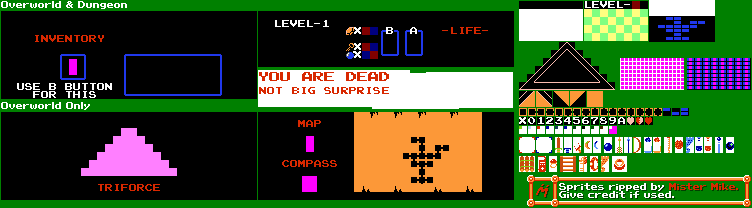
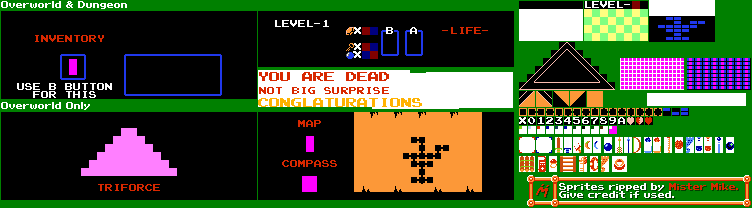
Updates Win Screen to be a bit more aesthetically in-line

Changed region(s): [[0.3364, 0.4615, 0.5811, 0.5192], [0.8564, 0.4327, 1.0, 0.5192]]

diff --git a/sprint0Real/GameState/WinningState.cs b/sprint0Real/GameState/WinningState.cs
@@ -24,6 +24,8 @@ internal class WinningState
     private Game1 game;
     private SpriteFont winFont;
 
+    private Texture2D SpriteSheet;
+
 
     private double animationElapsedTime = 0;
     private const double animationTotalDuration = 8; 
@@ -34,7 +36,7 @@ internal class WinningState
     private int numFlashes = 6;
     private double flashElapsedTime = 0;
 
-    public WinningState(Game1 game)
+    public WinningState(Game1 game, Texture2D _texture)
     {
         this.game = game;
         this.linksheet = game.linkSheet;
@@ -59,6 +61,8 @@ internal class WinningState
         );
         triforce = new Triforce(triforcePos);
         winFont = game.Content.Load<SpriteFont>("WinFont");
+
+        SpriteSheet = _texture;
     }
 
     public void Update(GameTime gameTime)
@@ -130,8 +134,8 @@ internal class WinningState
                 (screenWidth - size.X) / 2,
                 (screenHeight - size.Y) / 2
             );
+            spriteBatch.Draw(SpriteSheet, new Rectangle(Game1.SCREENMIDX - 82 * Game1.RENDERSCALE, Game1.SCREENMIDY - 4 * Game1.RENDERSCALE, 164 * Game1.RENDERSCALE, 9 * Game1.RENDERSCALE), new Rectangle(258, 98, 164, 9), Color.White);
 
-            spriteBatch.DrawString(winFont, message, position, Color.Gold);
         }
         spriteBatch.End();
     }

diff --git a/sprint0Real/Game1.cs b/sprint0Real/Game1.cs
@@ -197,7 +197,7 @@ namespace sprint0Real
             TreasureItemSpriteFactory.Instance.LoadAllTextures(Content);
             WolfSpriteFactory.Instance.LoadContent(Content);
             LevelLoader.Instance.LoadLevels();
-            winningState = new WinningState(this);
+            winningState = new WinningState(this, UISheet);
             ResetGame();
             collisionHandler.LoadCommands();
             collisionDetection.Load(Link);
@@ -503,7 +503,7 @@ namespace sprint0Real
             MenuUISprite = new MenuUI(UISheet);
             PauseUISprite = new PauseUI(UISheet);
             GameOverScreen = new GameOverUI(UISheet);
-            winningState = new WinningState(this);
+            winningState = new WinningState(this, UISheet);
 
             weaponItemsA = new NullSprite(linkSheet, this);
             weaponItemsB = new NullSprite(linkSheet, this);
